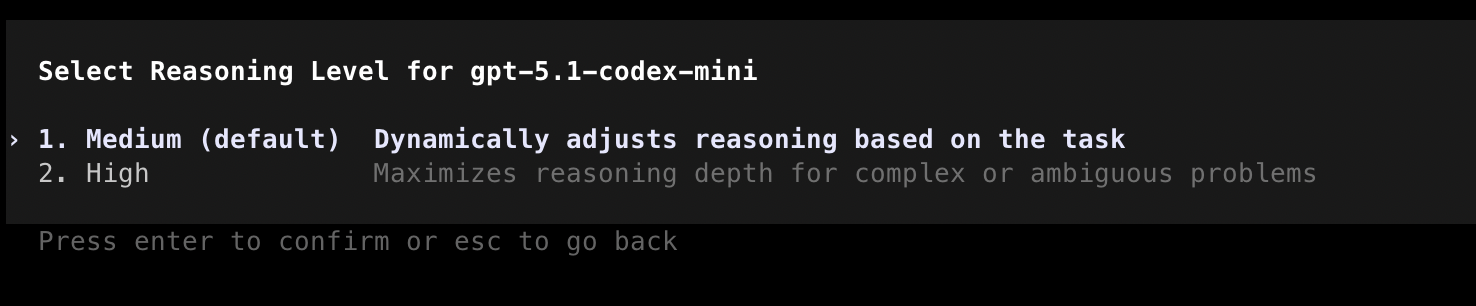
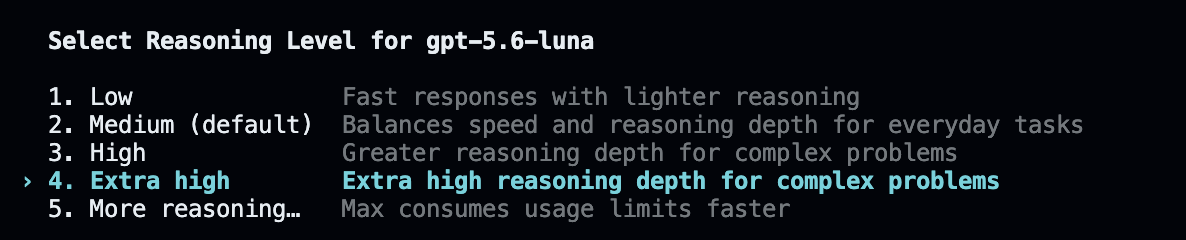
Update GPT-5.6 course materials

Changed region(s): [[0.0, 0.35, 0.9359, 0.7], [0.0, 0.7, 0.8423, 0.9333], [0.0, 0.1167, 0.5304, 0.2917]]

diff --git a/02-github-codex.md b/02-github-codex.md
@@ -190,11 +190,15 @@ node scripts/encrypt-class-api-key.mjs
 
 # 重要：モデルの選択
 
-Codexでは複数のモデルを選択できます。モデル一覧は頻繁に更新されるため、講義資料のスクリーンショットと実際の画面でモデル名が違う場合があります。
+Codexでは、作業に使うAIのモデルを選べます。
 
-2026年5月時点では、OpenAIの公式ドキュメントでは多くのコード生成タスクの標準として `gpt-5.5` が案内されています。Codex CLIのモデル選択画面では、APIキーの設定や利用できるモデルによって、`gpt-5.5`、`gpt-5.4`、`gpt-5.3-codex` など表示される候補が変わることがあります。
+2026年8月現在のGPT-5.6系には、次の3つがあります。
 
-表示されていれば、公式ドキュメントで案内されている最新モデルの `gpt-5.5` を選びます。表示されない場合は、`gpt-5.4` や `gpt-5.3-codex` など、その時点で選べる新しいモデルを選べばOKです。迷った場合は、最初はデフォルトのモデルのまま進めても構いません。
+- `gpt-5.6-sol`：難しい作業が得意
+- `gpt-5.6-terra`：性能とコストのバランスを重視
+- `gpt-5.6-luna`：速さとコストを重視
+
+**この講義では `gpt-5.6-luna` を使います。**
 
 Codexを起動している画面で、
 
@@ -206,33 +210,17 @@ Codexを起動している画面で、
 
 ![codex-model-select](./images/model-select.png)
 
-すると、このようにどのモデルを選択するかの画面が出てきます。
+上下の矢印キーで `gpt-5.6-luna` に移動し、Enterキーを押します。
 
-> 注: この資料の画像は講義作成時点のスクリーンショットを含むため、画像内のモデル名が古い場合があります。画面に古いモデル名が写っていても、実際にはその時点で表示される新しいモデルを選んでください。
+> モデル名や画面は更新されることがあります。`gpt-5.6-luna` が見つからないときは、先生やTAに聞いてください。
 
-キーボードの上下矢印キーで使いたいモデルに移動し、Enterキーを押します。
-
-![codex-mini](./images/codex-mini.png)
-
-すると、Reasoning Levelの選択画面に移ります。
-Reasoningとは、AIが考えるプロセスのことであり、ReasoningのLevelを上げると、AIがより多く考えて良い答えが返ってくる可能性が高まります。
-
-本講習で扱う静的なWebサイトのコーディングは比較的シンプルなので、Reasoning Levelは最初は `Low` を選べば十分です。複雑なバグ修正や大きな設計変更を依頼する場合は、`Medium (default)`、`High`、`Extra high` を検討します。
+次に、Reasoning Levelを選びます。Reasoning Levelは、AIが答える前に「どのくらいじっくり考えるか」の設定です。
 
 ![reasoning](./images/reasoning.png)
 
-<details markdown="1">
-<summary>どんな時にReasoningが必要？</summary>
-以下のようなケースでは、Reasoningがあるとより良い結果を得られやすいです。
+どれを選んでも進められますが、**この講義では `Extra high` を選びます。** 上下の矢印キーで移動し、Enterキーを押してください。
 
-- バグの原因特定
-- アルゴリズムの設計・選定
-- コードレビューでの問題発見
-- 複雑なデータ分析
-- 数学の問題
-
-Reasoningをおこなうようにすると、その分解答にかかる時間も増えるので、Codex CLIに限らず、普段生成AIを使用するときも使い分けを意識するとよいかもしれません。
-</details>
+Reasoning Levelを高くすると難しい問題をじっくり考えられますが、回答までの時間が長くなることがあります。
 
 ---
 

diff --git a/scripts/part1-script.md b/scripts/part1-script.md
@@ -179,9 +179,9 @@ codex
 【画面】モデル選択画面
 【テロップ】モデル ＝ AI の「頭脳」。タスクに合わせて使い分けるとコストと速度を最適化できる
 
-「モデル名はかなり頻繁に変わります。資料やスクリーンショットと違う名前が出ていても大丈夫です。2026年5月時点では、表示されていれば `gpt-5.5` を選びます。なければ `gpt-5.4` や `gpt-5.3-codex` など、その時点で選べる新しいモデルを選んでください。迷ったらデフォルトのままでもOKです。」
+「2026年8月現在、GPT-5.6系には Sol、Terra、Lunaがあります。今日の講義では、軽快でたくさん試しやすい `gpt-5.6-luna` を選びます。上下の矢印キーで移動し、Enterキーを押してください。」
 
-「次に Reasoning Level を聞かれます。Reasoning というのは、AI がどれくらい深く考えてから答えを出すかの度合いです。複雑なバグ修正やアルゴリズムの設計では上げたほうがいいですが、今回は `Medium (default)` で十分です。」
+「次に Reasoning Level を選びます。これは、AIが答える前にどのくらいじっくり考えるかの設定です。どれでも進められますが、今日は `Extra high` を選びます。」
 
 ---
 

diff --git a/README.md b/README.md
@@ -17,6 +17,25 @@
 
 ## [WebページURL](https://codex.keioaic.dev/)
 
+## 講義用APIキーの公開
+
+1. [OpenAI Platform の API keys](https://platform.openai.com/api-keys) で講義用のAPIキーを作成し、その場でコピーします。
+2. ローカルで暗号化ファイルを作ります。APIキーとパスワードは入力しても画面に表示されません。
+
+```bash
+node scripts/encrypt-class-api-key.mjs
+```
+
+3. 作成された `assets/data/class-api-key.enc.json` だけを公開します。
+
+```bash
+git add assets/data/class-api-key.enc.json
+git commit -m "Update class API key"
+git push
+```
+
+公開後は `02-github-codex.md` のフォームで、設定したパスワードを入れるとAPIキーを表示できます。平文のAPIキーはGitHubに置かず、授業後はOpenAI Platformで講義用キーを削除します。
+
 ## ローカル開発
 
 このリポジトリは GitHub Pages / Jekyll で公開する静的サイトです。
